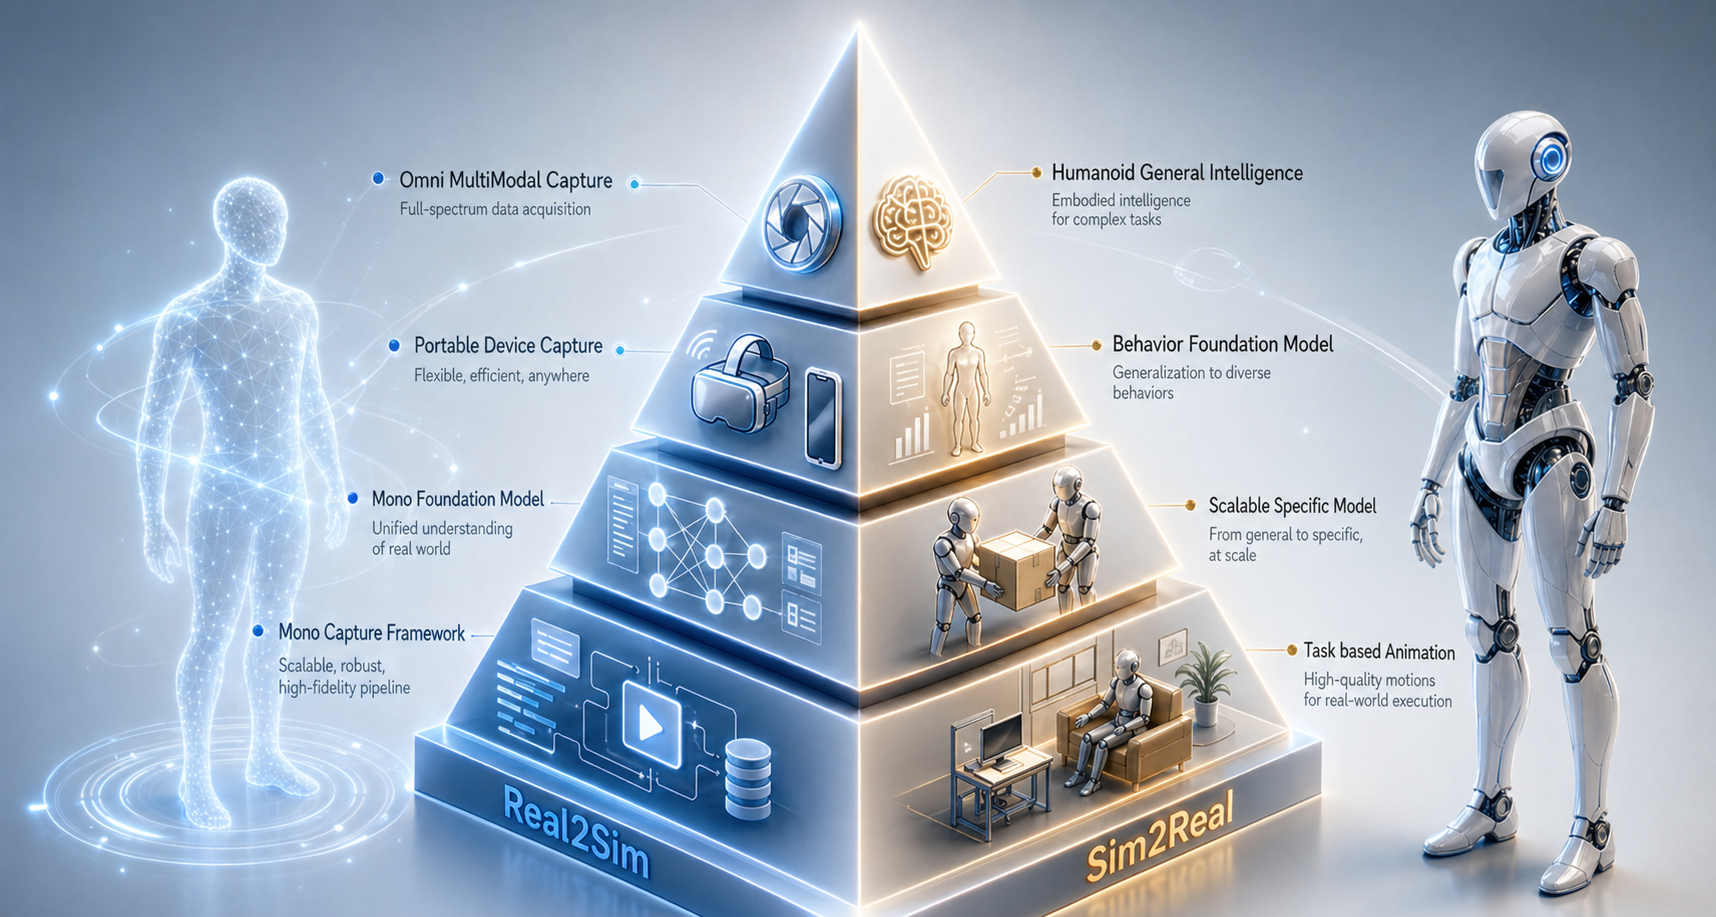
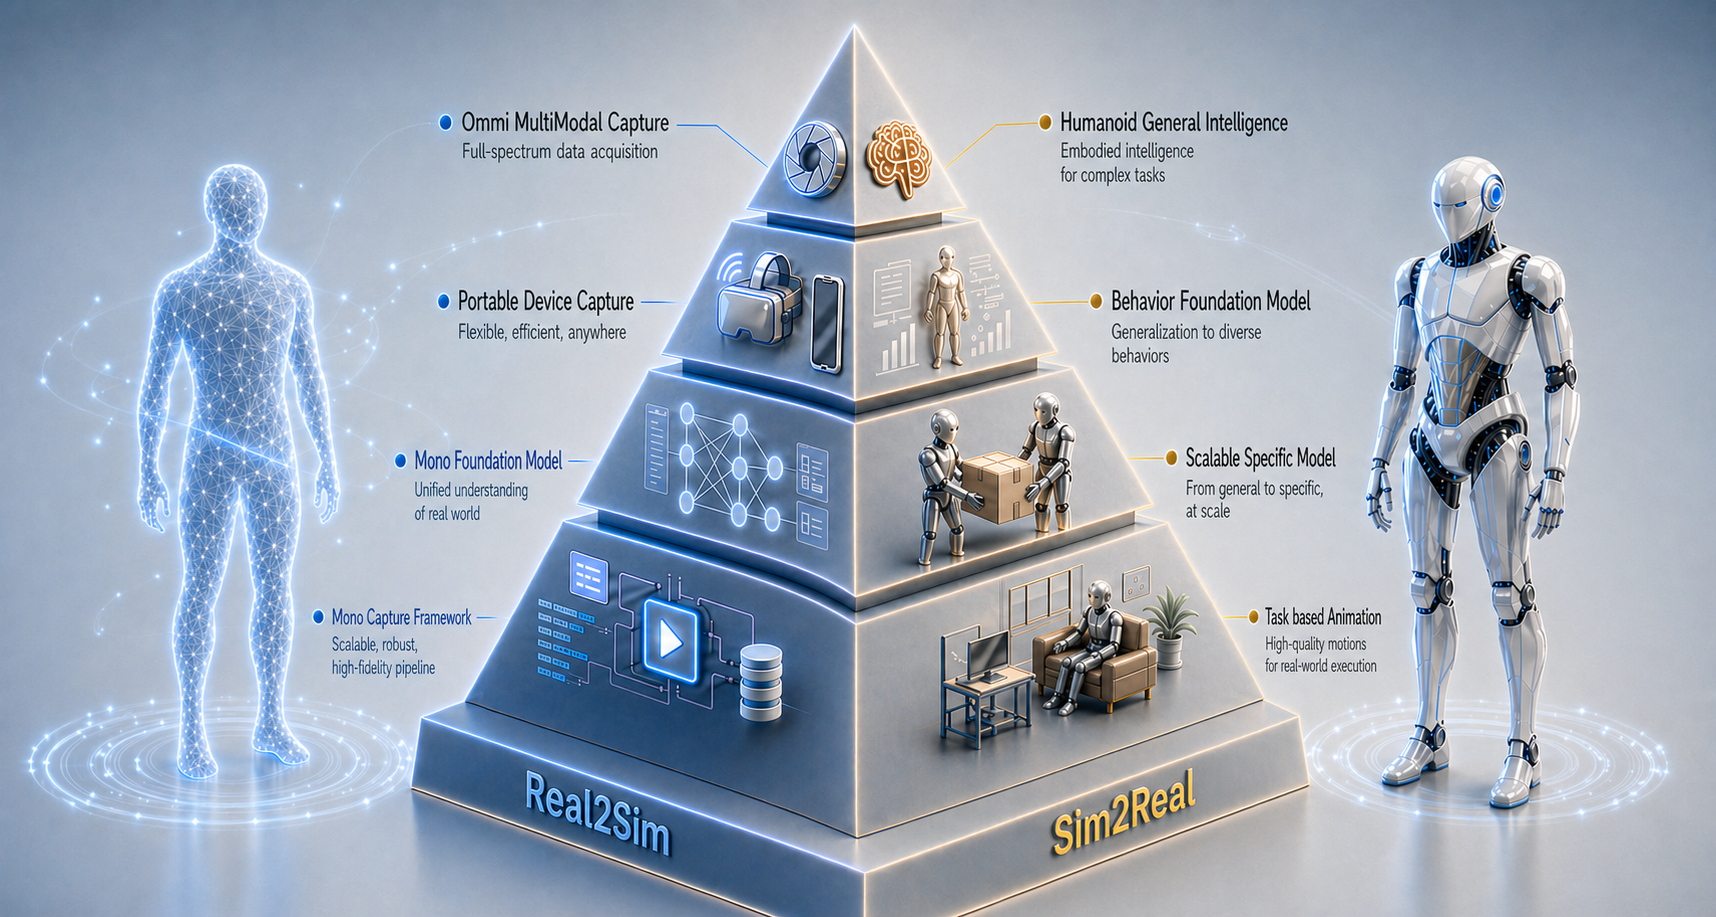
Update research scope image to scope_.png

diff --git a/_pages/about.md b/_pages/about.md
@@ -86,7 +86,7 @@ In <strong>Sim2Real</strong>, I am interested in developing behavior foundation 
     <p><strong>Real2Sim</strong>: capturing and reconstructing humans and scenes from real-world data to enable scalable embodied learning (e.g., <a href="/projects/embodmocap/">EmbodMocap</a>).</p>
     <p><strong>Sim2Real</strong>: generating and controlling human-scene interactions in physics-based simulation with better realism and generalization (e.g., <a href="/projects/sims/">SIMS</a>).</p>
   -->
-  <img src="/images/scope.png?v=2" alt="Research scope" />
+  <img src="/images/scope.png?v=3" alt="Research scope" />
 </section>
 
 <section class="home-section home-section--collab">
